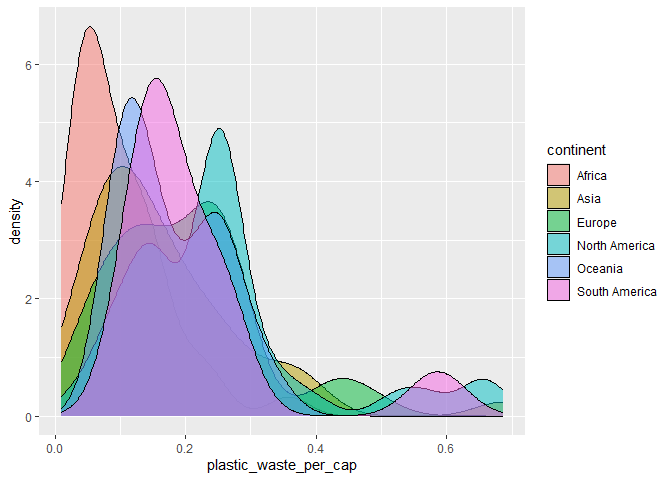
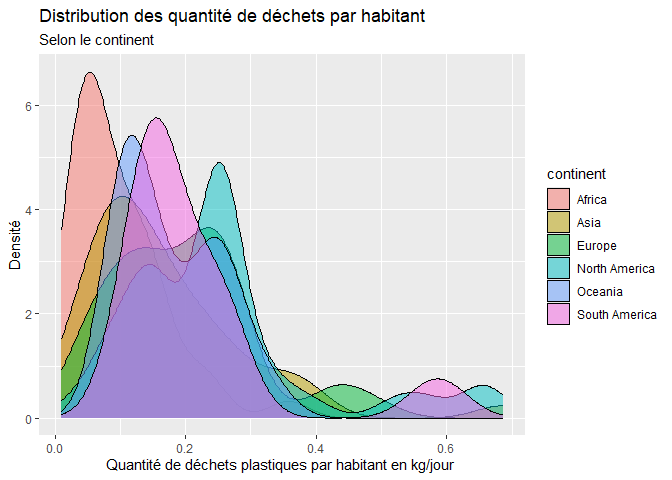
Fin du documents

diff --git a/lab-02.md b/lab-02.md
@@ -28,7 +28,8 @@ plastic_waste <- plastic_waste %>%
 ``` r
 ggplot(data = plastic_waste, aes(x = plastic_waste_per_cap)) +
   geom_histogram(binwidth = 0.2) +
-  facet_wrap( ~continent , ncol = 3)
+  facet_wrap( ~continent , ncol = 3) + 
+  labs(title = "Distribution des quantité de déchets par habitant", subtitle = "Selon le continent", x = "Quantité de déchets plastiques par habitant en kg/jour ", y ="Compte" ) 
 ```
 
 ![](lab-02_files/figure-gfm/plastic-waste-continent-1.png)<!-- -->
@@ -38,58 +39,152 @@ ggplot(data = plastic_waste, aes(x = plastic_waste_per_cap)) +
 ``` r
 ggplot(data = plastic_waste, aes(x = plastic_waste_per_cap,
                                  fill = continent)) +
-  geom_density(alpha = 0.5) 
+  geom_density(alpha = 0.5) + 
+   labs(title = "Distribution des quantité de déchets par habitant", subtitle = "Selon le continent", x = "Quantité de déchets plastiques par habitant en kg/jour ", y = "Densité") 
 ```
 
 ![](lab-02_files/figure-gfm/plastic-waste-density-1.png)<!-- -->
 
 Réponse à la question…
 
-Car color et fill servent à derterminer la propriété en fonction des
-données soit ici les continents et le plastic_waster_per_cap tandis que
-alpha lui sert fixer la transparence peu importe la variable dans les
-données.
+Color et fill servent à derterminer la propriété en fonction des données
+soit ici les continents et le plastic_waster_per_cap tandis que alpha
+lui sert fixer la transparence peu importe la variable dans les données.
 
 ### Exercise 3
 
 Boxplot:
 
 ``` r
-# insert code here
+ggplot(data = plastic_waste, aes(x = continent,
+                                 plastic_waste_per_cap)) +
+  geom_boxplot() + 
+  labs(title = "Distribution des quantité de déchets par habitant", subtitle = "Selon le continent", y = "Quantité de déchets plastiques par habitant en kg/jour ", x = "Continents") 
 ```
+
+![](lab-02_files/figure-gfm/plastic-waste-boxplot-1.png)<!-- -->
 
 Violin plot:
 
 ``` r
-# insert code here
+ggplot(data = plastic_waste, aes(x = continent, y = plastic_waste_per_cap)) +
+  geom_violin() + 
+  labs(title = "Distribution des quantité de déchets par habitant", subtitle = "Selon le continent", y = "Quantité de déchets plastiques par habitant en kg/jour ", x = "Continents") 
 ```
 
-Réponse à la question…
+![](lab-02_files/figure-gfm/plastic-waste-violin-1.png)<!-- -->
+
+Response à la question…
+
+Les violins plots permettent de savoir la densitée de pays ayant un
+certain niveau de déchet.
 
 ### Exercise 4
 
 ``` r
-# insert code here
+ggplot(data= plastic_waste, aes( x =plastic_waste_per_cap, 
+                                y = mismanaged_plastic_waste_per_cap,
+                                 colour = continent )) +
+geom_point() + 
+   facet_wrap( ~continent , ncol = 3) + 
+   labs(title = "Relation entre la quantité de déchet et la quantité de déchets non gérés", subtitle = "Selon le continent", y = "Quantité de déchets plastiques non gérés par habitant en kg/jour ", x = "Quantité de déchets plastiques par habitant en kg/jour") 
 ```
 
+![](lab-02_files/figure-gfm/plastic-waste-mismanaged-1.png)<!-- -->
+
 Réponse à la question…
+
+Plus le nombre d’habitants augmente, plus la quantité de déchets mal
+gérés augmente. De plus, il est possible de voir une meilleure gestion
+des déchets en Europe, ainsi qu’en Amérique du Nord. Principalement en
+Asie et en Afrique, la quantité de pays ayant une haute quantité de
+déchets mal gérés est plus élevée, cependant en Océanie et en Amérique
+du Sud, certain pays ont eux aussi une forte quantité de déchets mal
+gérés. Les continents les plus développés ont donc plus de déchets
+générés, mais ont une meilleure gestion de ces derniers.
 
 ### Exercise 5
 
 ``` r
-# insert code here
+ggplot(data= plastic_waste, aes( x =plastic_waste_per_cap, 
+                                 y = total_pop,
+                                 colour = continent )) +
+geom_point() + 
+   facet_wrap( ~continent , ncol = 3) + 
+   labs(title = "Relation entre la quantité de déchets plastiques par habitant et 
+        le nombre total d’habitants vivant près d’une côte", subtitle = "Selon le continent", y = "Population totale selon Gapminder ", x = "Quantité de déchets plastiques par habitant en kg/jour")
 ```
+
+    ## Warning: Removed 10 rows containing missing values or values outside the scale range
+    ## (`geom_point()`).
+
+![](lab-02_files/figure-gfm/plastic-waste-population-total-1.png)<!-- -->
 
 ``` r
-# insert code here
+ggplot(data= plastic_waste, aes( y =, coastal_pop,
+                                 x = plastic_waste_per_cap,
+                                 colour = continent )) +
+geom_point() +
+   facet_wrap( ~continent , ncol = 3) +  
+   labs(title = "Relation entre la quantité de déchets plastiques par habitant et 
+        le nombre total d’habitants vivant près d’une côte", subtitle = "Selon le continent", y = "Nombres de personnes vivant sur des côtes  ", x = "Quantité de déchets plastiques par habitant en kg/jour")
 ```
 
+![](lab-02_files/figure-gfm/plastic-waste-population-coastal-1.png)<!-- -->
+
 Réponse à la question…
+
+Les deux relations semblent simmilaires, cependant, pour la population
+côtières, elle est légèrement plus forte que pour la polulation totale.
+En effet, les déchets plastiques impactent directement les villes
+côtières.
 
 ## Conclusion
 
 Recréez la visualisation:
 
 ``` r
-# insert code here
+plastic_waste_coastal <- plastic_waste %>% 
+  mutate(coastal_pop_prop = coastal_pop /total_pop) %>%
+  filter(plastic_waste_per_cap < 3) 
+ggplot(plastic_waste_coastal, aes( x = coastal_pop_prop,
+                                 y = plastic_waste_per_cap,
+                                 colour = continent )) +
+  geom_point() +
+  geom_smooth(method = loess,
+              colour =  "black",
+               se = TRUE) +
+   scale_color_manual(values = c("Africa" = "#79c8af",    # Bleu clair
+                               "Asia" = "#fd895c",      # Jaune
+                               "Europe" = "#879bc9",    # Vert
+                               "North America" = "#e788c3", # Jaune pâle
+                               "Oceania" = "#a1d64a",   # Orange
+                               "South America" = "#ffd82a")) + # Rose
+  labs(title = "Quantité de déchets plastiques vs Proportion de la population côtière", subtitle = "Selon le continent", x = "Proportion de la population côtière (Coastal / total population) ", y =  "Nombre de déchets plastiques par habitant") 
 ```
+
+    ## `geom_smooth()` using formula = 'y ~ x'
+
+    ## Warning: Removed 10 rows containing non-finite outside the scale range
+    ## (`stat_smooth()`).
+
+    ## Warning: Removed 10 rows containing missing values or values outside the scale range
+    ## (`geom_point()`).
+
+![](lab-02_files/figure-gfm/recreate-viz-1.png)<!-- -->
+
+## Interprétation
+
+Il est possible de remarquer que lorsque la proportion de la population
+côtière est plus faible (entre 0,0 et 0,5), le nombre de déchets
+plastiques par habitant est plus faible. Lorsqu’on dépasse 0.5 et se
+rapproche de 1,25, il est possible de voir une stabilisation de la
+courbe de tendance, cependant il est possible de voir que certain pays
+notaments plusieurs en Amérique de Nord ont un haut niveau de nombre de
+déchets plastiques par habitant. Cette hausse de la courbe de tendance
+peut être expliquer par le tourisme ou l’urbanisation des pays situés
+dans ces continents. En effets, entre 0,0 et 0,5, il y une forte
+quantité de pays provenant d’afrique ou d’asie, zones où certains pays
+sont plus pauvre. Après 1,25, la courbe est stable avec une lègere pente
+déscendante, mais passer se seuil le nombre de pays est très faible et
+sort de la moyenne.
